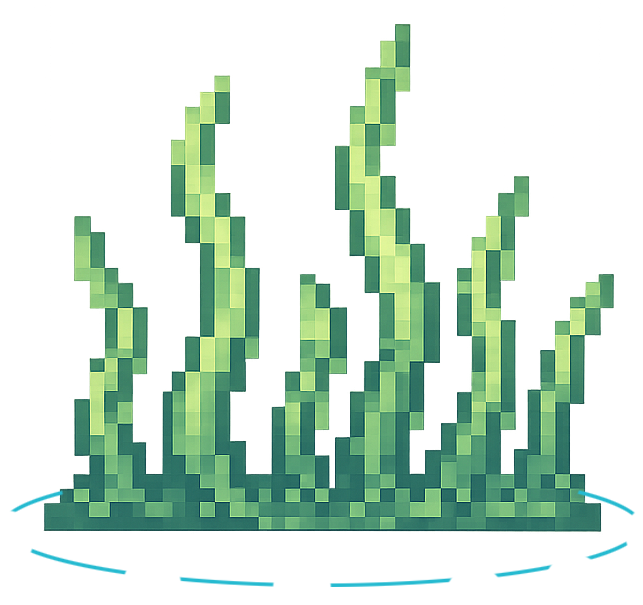
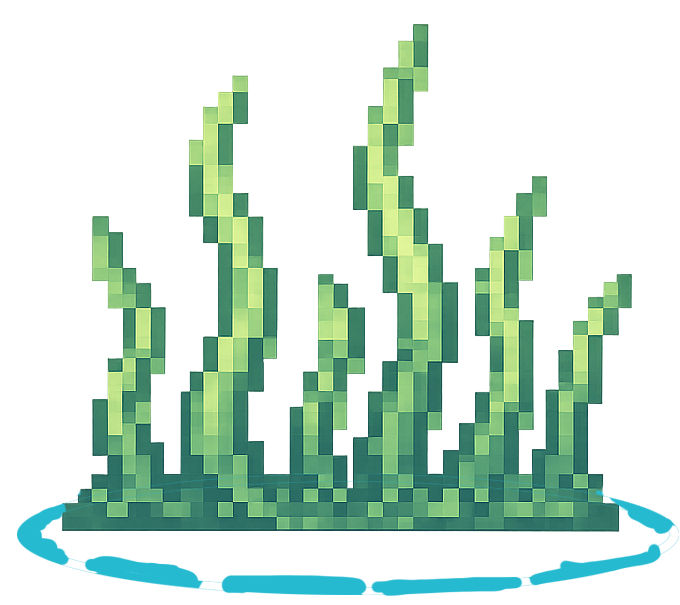
右上角添加像素字体抓鱼计数器, 重排右下角石头布局

Changed region(s): [[0.0, 0.0298, 1.0, 1.0], [0.4977, 0.7438, 0.5288, 0.8331]]

diff --git a/index.html b/index.html
@@ -19,6 +19,9 @@
 
     <!-- ===== 固定装饰元素（参考 refer.png 布局） ===== -->
 
+    <!-- 抓鱼计数器 -->
+    <div class="catch-counter" id="catchCounter">00</div>
+
     <!-- 芦苇 ×3（左上、右上、右下） -->
     <img src="images/reed.png" alt="芦苇" class="el el-reed" id="reed1" style="left:13%;top:12%;" />
     <img src="images/reed.png" alt="芦苇" class="el el-reed el-reed-flip" id="reed2" style="left:79%;top:10%;" />
@@ -44,9 +47,9 @@
     <img src="images/stone_brown.png" alt="棕石" class="el el-stone el-stone-sm" id="stoneBrown1" style="left:12%;top:85%;z-index:4;" />
 
     <!-- 石头组 — 右下角 -->
-    <img src="images/stone_brown.png" alt="棕石" class="el el-stone el-stone-lg" id="stoneBrown2" style="left:76%;top:80%;z-index:2;" />
-    <img src="images/stone_gray.png" alt="灰石" class="el el-stone el-stone-md" id="stoneGray2" style="left:80%;top:83%;z-index:3;" />
-    <img src="images/stone_dark_gray.png" alt="深灰石" class="el el-stone el-stone-sm" id="stoneDark2" style="left:74%;top:85%;z-index:4;" />
+    <img src="images/stone_dark_gray.png" alt="深灰石" class="el el-stone el-stone-lg" id="stoneDark2" style="left:78%;top:78%;z-index:2;" />
+    <img src="images/stone_brown.png" alt="棕石" class="el el-stone el-stone-md" id="stoneBrown2" style="left:75%;top:82%;z-index:3;" />
+    <img src="images/stone_gray.png" alt="灰石" class="el el-stone el-stone-sm" id="stoneGray2" style="left:80%;top:84%;z-index:4;" />
 
     <!-- 石头 — 水中小石头 -->
     <img src="images/stone_gray.png" alt="小石" class="el el-stone el-stone-water" id="stoneWater1" style="left:42%;top:70%;" />

diff --git a/style.css b/style.css
@@ -97,6 +97,32 @@ body {
   .frog-wrap  { width: clamp(80px, 18%, 130px); }
 }
 
+/* ===== 抓鱼计数器 ===== */
+.catch-counter {
+  position: absolute;
+  top: 8%;
+  right: 8%;
+  z-index: 20;
+  font-family: var(--pf);
+  font-size: clamp(1rem, 2.8vw, 1.6rem);
+  font-weight: 700;
+  color: #3b6b8a;
+  text-shadow: 1px 1px 0 rgba(255,255,255,0.6);
+  letter-spacing: 2px;
+  -webkit-font-smoothing: none;
+  pointer-events: none;
+  user-select: none;
+  transition: transform 0.2s ease;
+}
+.catch-counter.pop {
+  animation: counterPop 0.35s ease;
+}
+@keyframes counterPop {
+  0%   { transform: scale(1); }
+  40%  { transform: scale(1.35); }
+  100% { transform: scale(1); }
+}
+
 /* ==========================================================
    通用装饰元素 — 所有位置固定，不随机
    ========================================================== */

diff --git a/script.js b/script.js
@@ -11,7 +11,9 @@
   var pond     = document.getElementById('pond');
   var frogWrap = document.getElementById('frogWrap');
   var thinkBub = document.getElementById('thinkBubble');
+  var catchCounter = document.getElementById('catchCounter');
   var thinkOpen = false;
+  var catchCount = 0;
 
   /* ====== 工具函数 ====== */
   function rand(a, b) { return a + Math.random() * (b - a); }
@@ -252,6 +254,9 @@
       fishes.forEach(function (fish) {
         if (fish._hiding && fish._hideGrass === el) {
           emergeFromGrass(fish);
+          catchCount = Math.min(catchCount + 1, 99);
+          catchCounter.textContent = catchCount < 10 ? '0' + catchCount : String(catchCount);
+          catchCounter.classList.remove('pop'); void catchCounter.offsetWidth; catchCounter.classList.add('pop');
         }
       });
     });
